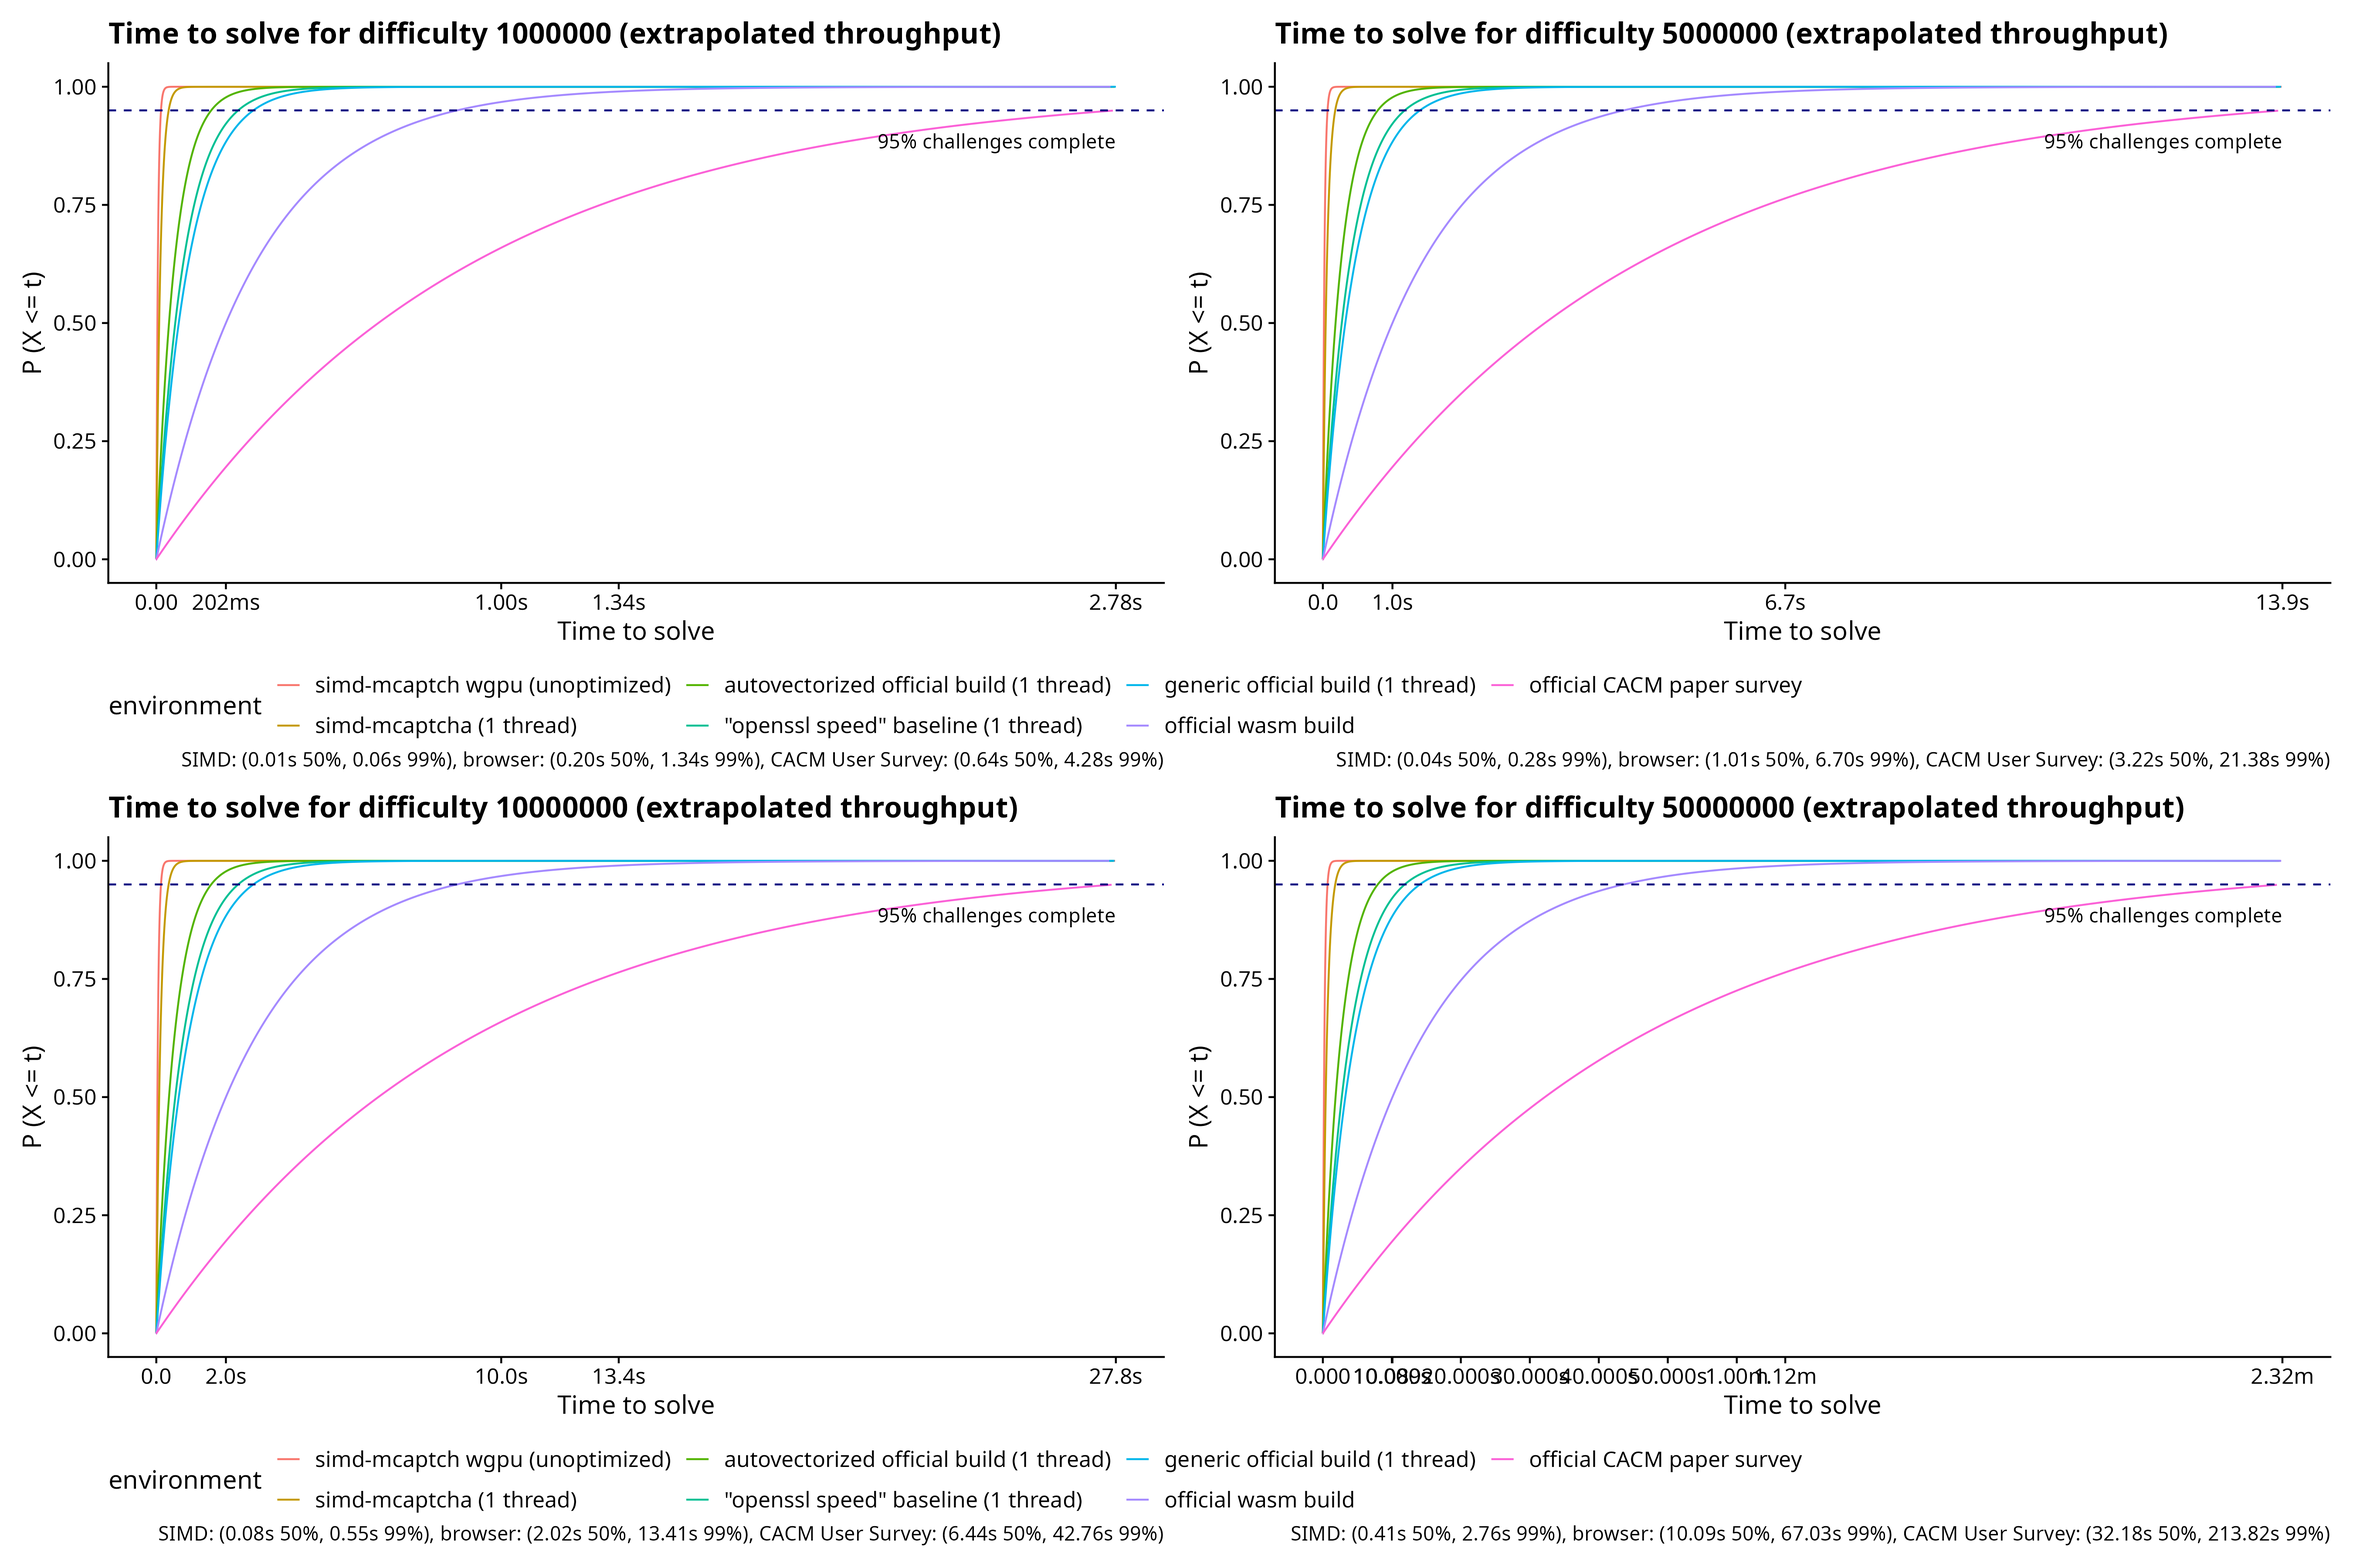
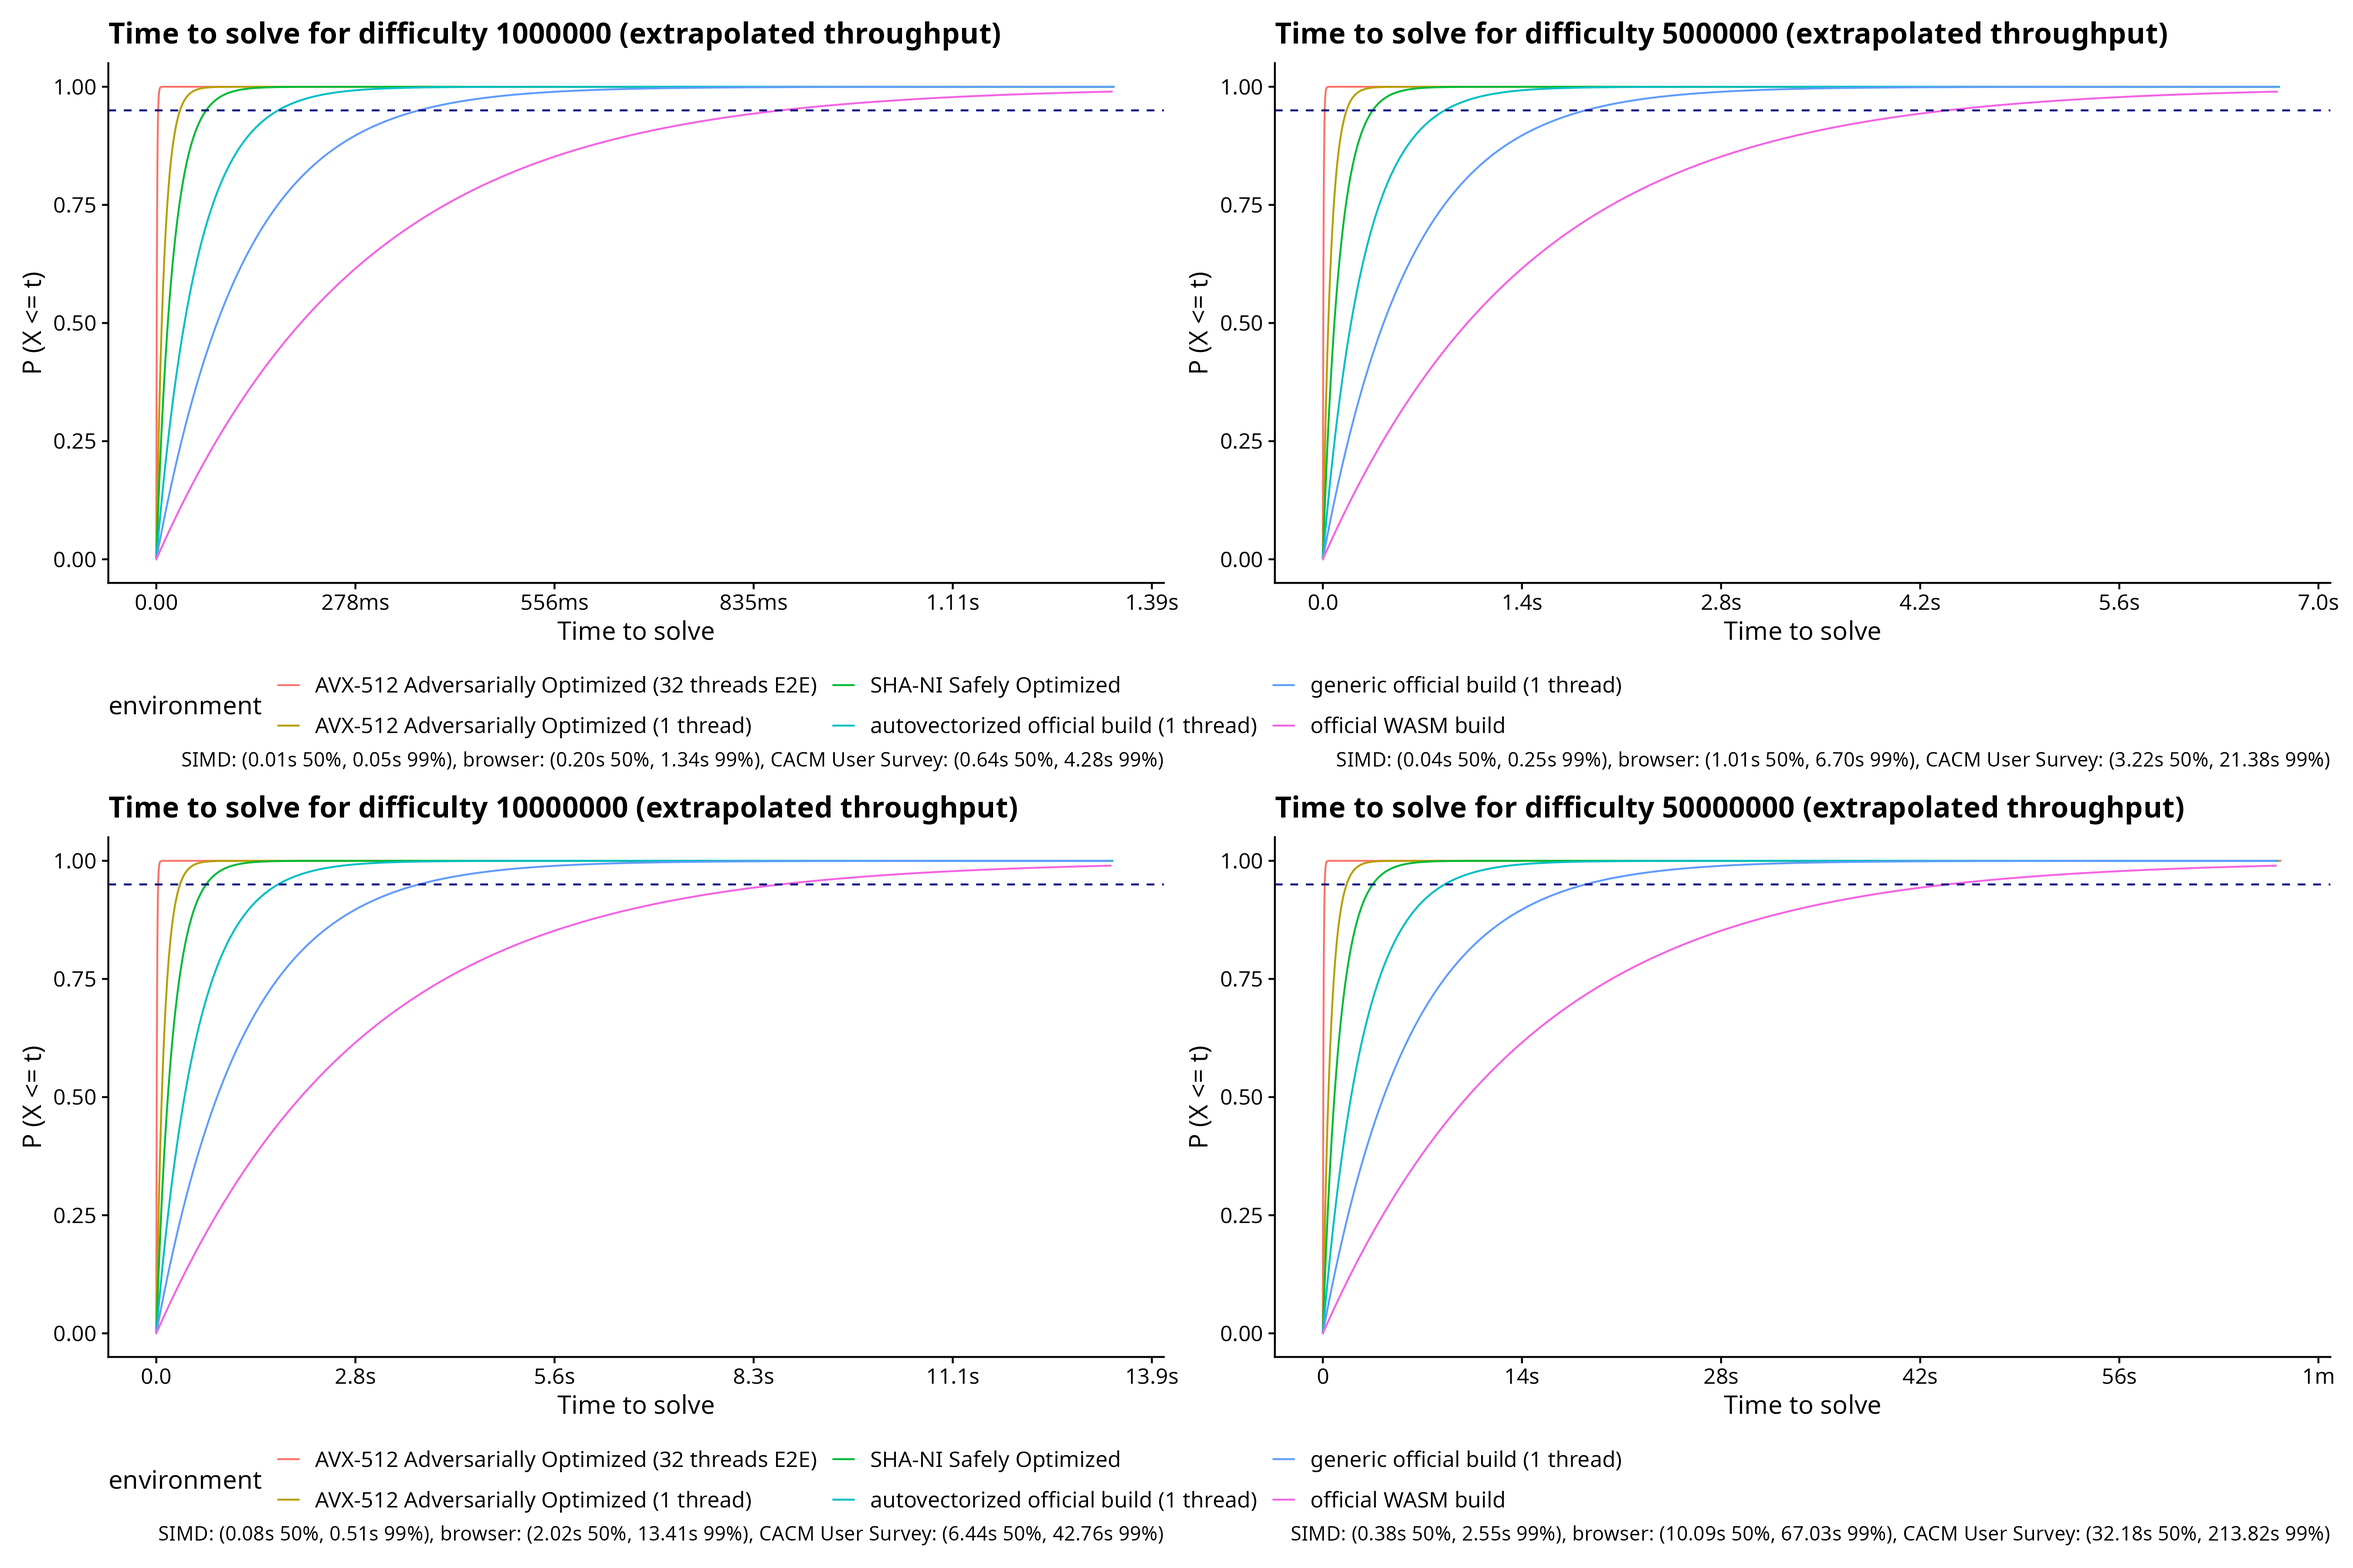
redo plots

diff --git a/README.md b/README.md
@@ -70,7 +70,6 @@ TLDR; My extrapolated throughput for each approach, corroborated by empirical an
 
 ![Extrapolated throughput](plots/time.png)
 
-
 Note: To reproduce, you don't need to clone the submodule, it is only used as a pointer for what I used to for benchmarking.
 
 ### Formal Benchmark
@@ -80,16 +79,17 @@ Speedup against official solution, reported by Criterion.rs, single-threaded:
 Results on AMD Ryzen 9 7950X, 32 cores (wgpu uses NVIDIA RTX 4070), when supported, single-hash number comes first (there is 90% chance your deployment is single-hash, this vagueness is IMO design oversight by the mCaptcha team), double-hash number comes second, all numbers are in milliseconds, compiled with `-Ctarget-cpu=native` unless otherwise specified.
 
 
-| DFactor    | AVX-512  [^1] | Safe Optimized [^2] | Official (*)  | Official Generic x64 (*) | wgpu (Vulkan) |
-| ---------- | ------------- | ------------------- | ------------- | ------------------------ | ------------- |
-| 50_000     | 0.623/1.066   | 1.606/?             | 2.940/4.654   | 5.3261/9.683             | 0.097         |
-| 100_000    | 1.268/2.232   | 3.314/?             | 5.089/10.471  | 9.8579/24.664            | 0.126         |
-| 1_000_000  | 11.574/20.610 | 42.727/?            | 65.015/42.353 | 137.78/97.271            | 0.489         |
-| 4_000_000  | 44.254/52.155 | 92.932/?            | 227.14/162.24 | 489.67/382.04            | 1.844         |
-| 10_000_000 | 113.47/145.46 | 410.26/?            | 505.85/707.39 | DNS                      | 4.201         |
+| DFactor    | AVX-512 [^1]  | Safe Optimized (+) [^2] | Official (+*) | Official Generic x64 (+*) | wgpu (Vulkan) |
+| ---------- | ------------- | ----------------------- | ------------- | ------------------------- | ------------- |
+| 50_000     | 0.623/1.066   | 1.606/?                 | 2.940/4.654   | 5.3261/9.683              | 0.097         |
+| 100_000    | 1.268/2.232   | 3.314/?                 | 5.089/10.471  | 9.8579/24.664             | 0.126         |
+| 1_000_000  | 11.574/20.610 | 42.727/?                | 65.015/42.353 | 137.78/97.271             | 0.489         |
+| 4_000_000  | 44.254/52.155 | 92.932/?                | 227.14/162.24 | 489.67/382.04             | 1.844         |
+| 10_000_000 | 113.47/145.46 | 410.26/?                | 505.85/707.39 | DNS                       | 4.201         |
 
 (*) = Since official solution allocated a variable length string per iteration, it is pretty difficult to get it to perform it stably both in terms of how many blocks to hash and how long the allocation takes, serious non-linear performance degradation seems to be observed and it is likely attributed to re-allocation overhead.
 (?) = not implemented, but I expect close to a clean double
+(+) = SNA-NI is used.
 
 [^1]: Results on a Netcup (R) RS 4000 G11 (26 EUR/month at the time of writing, backed by AMD EPYC 9634), shows comparable performance with a ~15-20% slowdown across the board, with relatively similar speedup ratio.
 [^2]: Represents a custom implementation using safe, externally-validated cryptographic abstractions only and no platform-specific optimizations.
